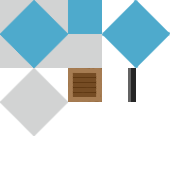
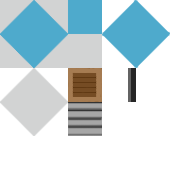
hidding section

Changed region(s): [[0.3824, 0.5882, 0.6176, 0.8235]]

diff --git a/core/src/com/agmcleod/sp/CustomMapRenderer.java b/core/src/com/agmcleod/sp/CustomMapRenderer.java
@@ -40,6 +40,7 @@ import static com.badlogic.gdx.graphics.g2d.Batch.Y4;
 import com.badlogic.gdx.graphics.Color;
 import com.badlogic.gdx.graphics.g2d.Batch;
 import com.badlogic.gdx.graphics.g2d.TextureRegion;
+import com.badlogic.gdx.maps.MapProperties;
 import com.badlogic.gdx.maps.tiled.TiledMap;
 import com.badlogic.gdx.maps.tiled.TiledMapTile;
 import com.badlogic.gdx.maps.tiled.TiledMapTileLayer;
@@ -93,106 +94,109 @@ public class CustomMapRenderer extends BatchTiledMapRenderer {
                     final boolean flipY = cell.getFlipVertically();
                     final int rotations = cell.getRotation();
 
-                    TextureRegion region = tile.getTextureRegion();
+                    MapProperties properties = tile.getProperties();
+                    if (!properties.containsKey("hidden") || !properties.get("hidden", String.class).equals("true")) {
+                        TextureRegion region = tile.getTextureRegion();
 
-                    float x1 = x + tile.getOffsetX() * unitScale;
-                    float y1 = y + tile.getOffsetY() * unitScale;
-                    float x2 = x1 + region.getRegionWidth() * unitScale;
-                    float y2 = y1 + region.getRegionHeight() * unitScale;
+                        float x1 = x + tile.getOffsetX() * unitScale;
+                        float y1 = y + tile.getOffsetY() * unitScale;
+                        float x2 = x1 + region.getRegionWidth() * unitScale;
+                        float y2 = y1 + region.getRegionHeight() * unitScale;
 
-                    float u1 = region.getU();
-                    float v1 = region.getV2();
-                    float u2 = region.getU2();
-                    float v2 = region.getV();
+                        float u1 = region.getU();
+                        float v1 = region.getV2();
+                        float u2 = region.getU2();
+                        float v2 = region.getV();
 
-                    vertices[X1] = x1;
-                    vertices[Y1] = y1;
-                    vertices[C1] = color;
-                    vertices[U1] = u1;
-                    vertices[V1] = v1;
+                        vertices[X1] = x1;
+                        vertices[Y1] = y1;
+                        vertices[C1] = color;
+                        vertices[U1] = u1;
+                        vertices[V1] = v1;
 
-                    vertices[X2] = x1;
-                    vertices[Y2] = y2;
-                    vertices[C2] = color;
-                    vertices[U2] = u1;
-                    vertices[V2] = v2;
+                        vertices[X2] = x1;
+                        vertices[Y2] = y2;
+                        vertices[C2] = color;
+                        vertices[U2] = u1;
+                        vertices[V2] = v2;
 
-                    vertices[X3] = x2;
-                    vertices[Y3] = y2;
-                    vertices[C3] = color;
-                    vertices[U3] = u2;
-                    vertices[V3] = v2;
+                        vertices[X3] = x2;
+                        vertices[Y3] = y2;
+                        vertices[C3] = color;
+                        vertices[U3] = u2;
+                        vertices[V3] = v2;
 
-                    vertices[X4] = x2;
-                    vertices[Y4] = y1;
-                    vertices[C4] = color;
-                    vertices[U4] = u2;
-                    vertices[V4] = v1;
+                        vertices[X4] = x2;
+                        vertices[Y4] = y1;
+                        vertices[C4] = color;
+                        vertices[U4] = u2;
+                        vertices[V4] = v1;
 
-                    if (flipX) {
-                        float temp = vertices[U1];
-                        vertices[U1] = vertices[U3];
-                        vertices[U3] = temp;
-                        temp = vertices[U2];
-                        vertices[U2] = vertices[U4];
-                        vertices[U4] = temp;
-                    }
-                    if (flipY) {
-                        float temp = vertices[V1];
-                        vertices[V1] = vertices[V3];
-                        vertices[V3] = temp;
-                        temp = vertices[V2];
-                        vertices[V2] = vertices[V4];
-                        vertices[V4] = temp;
-                    }
-                    if (rotations != 0) {
-                        switch (rotations) {
-                            case Cell.ROTATE_90: {
-                                float tempV = vertices[V1];
-                                vertices[V1] = vertices[V2];
-                                vertices[V2] = vertices[V3];
-                                vertices[V3] = vertices[V4];
-                                vertices[V4] = tempV;
+                        if (flipX) {
+                            float temp = vertices[U1];
+                            vertices[U1] = vertices[U3];
+                            vertices[U3] = temp;
+                            temp = vertices[U2];
+                            vertices[U2] = vertices[U4];
+                            vertices[U4] = temp;
+                        }
+                        if (flipY) {
+                            float temp = vertices[V1];
+                            vertices[V1] = vertices[V3];
+                            vertices[V3] = temp;
+                            temp = vertices[V2];
+                            vertices[V2] = vertices[V4];
+                            vertices[V4] = temp;
+                        }
+                        if (rotations != 0) {
+                            switch (rotations) {
+                                case Cell.ROTATE_90: {
+                                    float tempV = vertices[V1];
+                                    vertices[V1] = vertices[V2];
+                                    vertices[V2] = vertices[V3];
+                                    vertices[V3] = vertices[V4];
+                                    vertices[V4] = tempV;
 
-                                float tempU = vertices[U1];
-                                vertices[U1] = vertices[U2];
-                                vertices[U2] = vertices[U3];
-                                vertices[U3] = vertices[U4];
-                                vertices[U4] = tempU;
-                                break;
-                            }
-                            case Cell.ROTATE_180: {
-                                float tempU = vertices[U1];
-                                vertices[U1] = vertices[U3];
-                                vertices[U3] = tempU;
-                                tempU = vertices[U2];
-                                vertices[U2] = vertices[U4];
-                                vertices[U4] = tempU;
-                                float tempV = vertices[V1];
-                                vertices[V1] = vertices[V3];
-                                vertices[V3] = tempV;
-                                tempV = vertices[V2];
-                                vertices[V2] = vertices[V4];
-                                vertices[V4] = tempV;
-                                break;
-                            }
-                            case Cell.ROTATE_270: {
-                                float tempV = vertices[V1];
-                                vertices[V1] = vertices[V4];
-                                vertices[V4] = vertices[V3];
-                                vertices[V3] = vertices[V2];
-                                vertices[V2] = tempV;
+                                    float tempU = vertices[U1];
+                                    vertices[U1] = vertices[U2];
+                                    vertices[U2] = vertices[U3];
+                                    vertices[U3] = vertices[U4];
+                                    vertices[U4] = tempU;
+                                    break;
+                                }
+                                case Cell.ROTATE_180: {
+                                    float tempU = vertices[U1];
+                                    vertices[U1] = vertices[U3];
+                                    vertices[U3] = tempU;
+                                    tempU = vertices[U2];
+                                    vertices[U2] = vertices[U4];
+                                    vertices[U4] = tempU;
+                                    float tempV = vertices[V1];
+                                    vertices[V1] = vertices[V3];
+                                    vertices[V3] = tempV;
+                                    tempV = vertices[V2];
+                                    vertices[V2] = vertices[V4];
+                                    vertices[V4] = tempV;
+                                    break;
+                                }
+                                case Cell.ROTATE_270: {
+                                    float tempV = vertices[V1];
+                                    vertices[V1] = vertices[V4];
+                                    vertices[V4] = vertices[V3];
+                                    vertices[V3] = vertices[V2];
+                                    vertices[V2] = tempV;
 
-                                float tempU = vertices[U1];
-                                vertices[U1] = vertices[U4];
-                                vertices[U4] = vertices[U3];
-                                vertices[U3] = vertices[U2];
-                                vertices[U2] = tempU;
-                                break;
+                                    float tempU = vertices[U1];
+                                    vertices[U1] = vertices[U4];
+                                    vertices[U4] = vertices[U3];
+                                    vertices[U3] = vertices[U2];
+                                    vertices[U2] = tempU;
+                                    break;
+                                }
                             }
                         }
+                        batch.draw(region.getTexture(), vertices, 0, NUM_VERTICES);
                     }
-                    batch.draw(region.getTexture(), vertices, 0, NUM_VERTICES);
                 }
                 x += layerTileWidth;
             }
